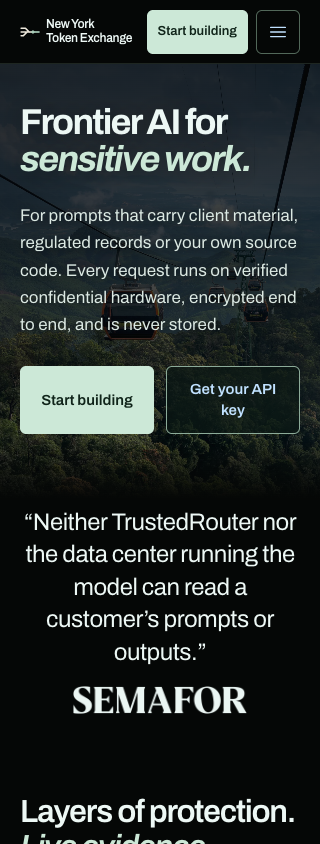
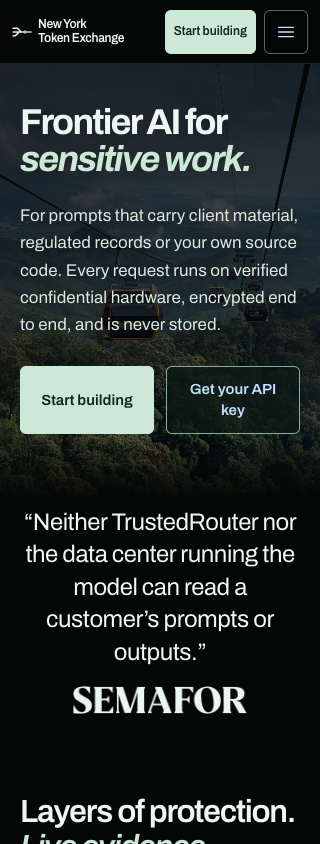
Reserve space between mobile wordmark and building CTA

Changed region(s): [[0.4375, 0.0, 0.9688, 0.0616], [0.0312, 0.0, 0.4062, 0.0616]]

diff --git a/sites/token-exchange/nyte-v2/styles.css b/sites/token-exchange/nyte-v2/styles.css
@@ -354,10 +354,11 @@ details p{color:var(--t2);padding:0 48px 24px 0;max-width:62ch}
   .story blockquote{font-size:20px}
   .btns .btn{flex:1;min-width:0;padding:12px 10px;font-size:15px;white-space:normal;text-align:center}
 
-  .hdr .brand{min-width:0;font-size:14px;line-height:1.15;gap:8px}
-  .hdr .brand>span{display:flex;flex-wrap:wrap;column-gap:.25em;min-width:0}
+  .hdr{gap:8px}
+  .hdr .brand{flex-shrink:0;font-size:14px;line-height:1.15;gap:8px}
+  .hdr .brand>span{display:flex;flex-direction:column}
   .hdr .brand .brand-line{white-space:nowrap}
-  .hdr>.btn-sm{font-size:13px;padding:8px 10px}
+  .hdr>.btn-sm{margin-left:16px;font-size:13px;padding:8px 10px}
   .hero-api{padding:40px 0 64px;min-height:0}
   .hero-api::before{background:linear-gradient(180deg,rgba(5,7,6,.8) 0%,rgba(5,7,6,.72) 70%,rgba(5,7,6,.5) 86%,#050706 100%)}
   .hero-api h1{font-size:clamp(36px,10.5vw,44px);margin-bottom:24px}
@@ -391,7 +392,7 @@ html{scroll-padding-top:96px} body>.skip{position:absolute;top:-80px;z-index:100
 
 .model-head,.privacy-column{grid-template-columns:minmax(0,1.6fr) minmax(0,1.1fr) minmax(0,.65fr) minmax(0,.65fr)}.model-head{display:grid;gap:20px;border-bottom:1px solid var(--rule);padding:0 0 12px;margin-top:36px;font:12px var(--mono);color:var(--t3)}.live-models{margin-top:0}.privacy-price{text-align:right}.model-head span:nth-last-child(-n+2){text-align:right}
 @media(max-width:600px){.model-head{display:none}.privacy-column{grid-template-columns:1fr 1fr}.privacy-choice,.privacy-provider{grid-column:1/-1}.privacy-price{text-align:left}.privacy-price::before{content:attr(data-label);display:block;color:var(--t3);font-size:11px;margin-bottom:4px}}
-@media(max-width:359px){.hdr{gap:8px}.hdr .brand{gap:6px;font-size:12px}.hdr .brand svg{width:20px;min-width:20px}}
+@media(max-width:359px){.hdr{padding-inline:12px}.hdr>.btn-sm{font-size:12px;padding-inline:8px}.hdr .brand{gap:6px;font-size:12px}.hdr .brand svg{width:20px;min-width:20px}}
 
 /* Shared NYTE footer: approved Direction A. */
 .site-footer{max-width:1280px;margin:auto;padding:88px 60px 32px;background:#050706;color:#edf8f5;font:400 17px/1.65 Archivo,Arial,sans-serif}
